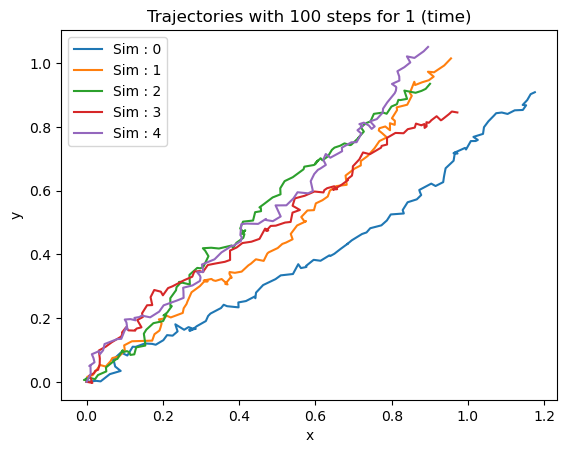
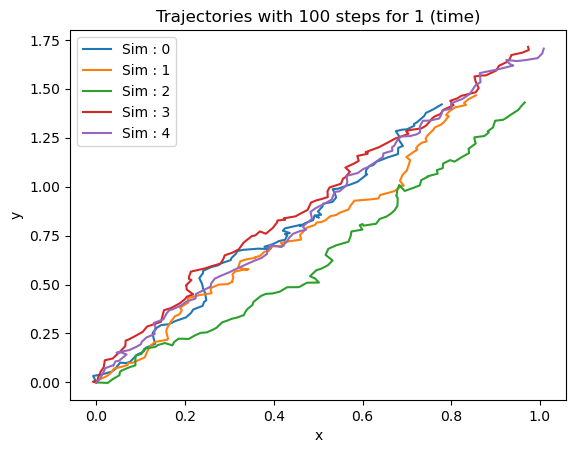
solver with background flow

diff --git a/sde.py b/sde.py
@@ -6,10 +6,11 @@ def dW(delta_t):
 
 def solver(x,U,p,Dt,D,u_bg=np.zeros(2)):
     dW_t =  dW(Dt)
-    return x + +u_bg+U*p*Dt+ D*dW_t
+    return x + u_bg*Dt+ U*p*Dt+ D*dW_t
 
 def run_sde(nb_steps,t_init,t_end,U=1,p = np.ones(2),x_0 = np.zeros(2),u_bg=np.zeros(2)):
     D=0.1
+    u_bg = np.array([0,1])*0.5
 
     Dt = (t_end-t_init)/nb_steps
 
@@ -17,7 +18,7 @@ def run_sde(nb_steps,t_init,t_end,U=1,p = np.ones(2),x_0 = np.zeros(2),u_bg=np.z
     traj[0] = x_0
 
     for n in range(nb_steps-1) : 
-        traj[n+1] = solver(traj[n],U,p,Dt,D)
+        traj[n+1] = solver(traj[n],U,p,Dt,D,u_bg)
     return traj
     
 def plot_simulation(num_sims,nb_steps,t_init,t_end):

diff --git a/env_swimmer.py b/env_swimmer.py
@@ -25,6 +25,7 @@ class MicroSwimmer(gym.Env):
         self.threshold = threshold
         self.dir_path=np.zeros(2)
         self.beta=beta
+        
 
 
     def state(self,path):
